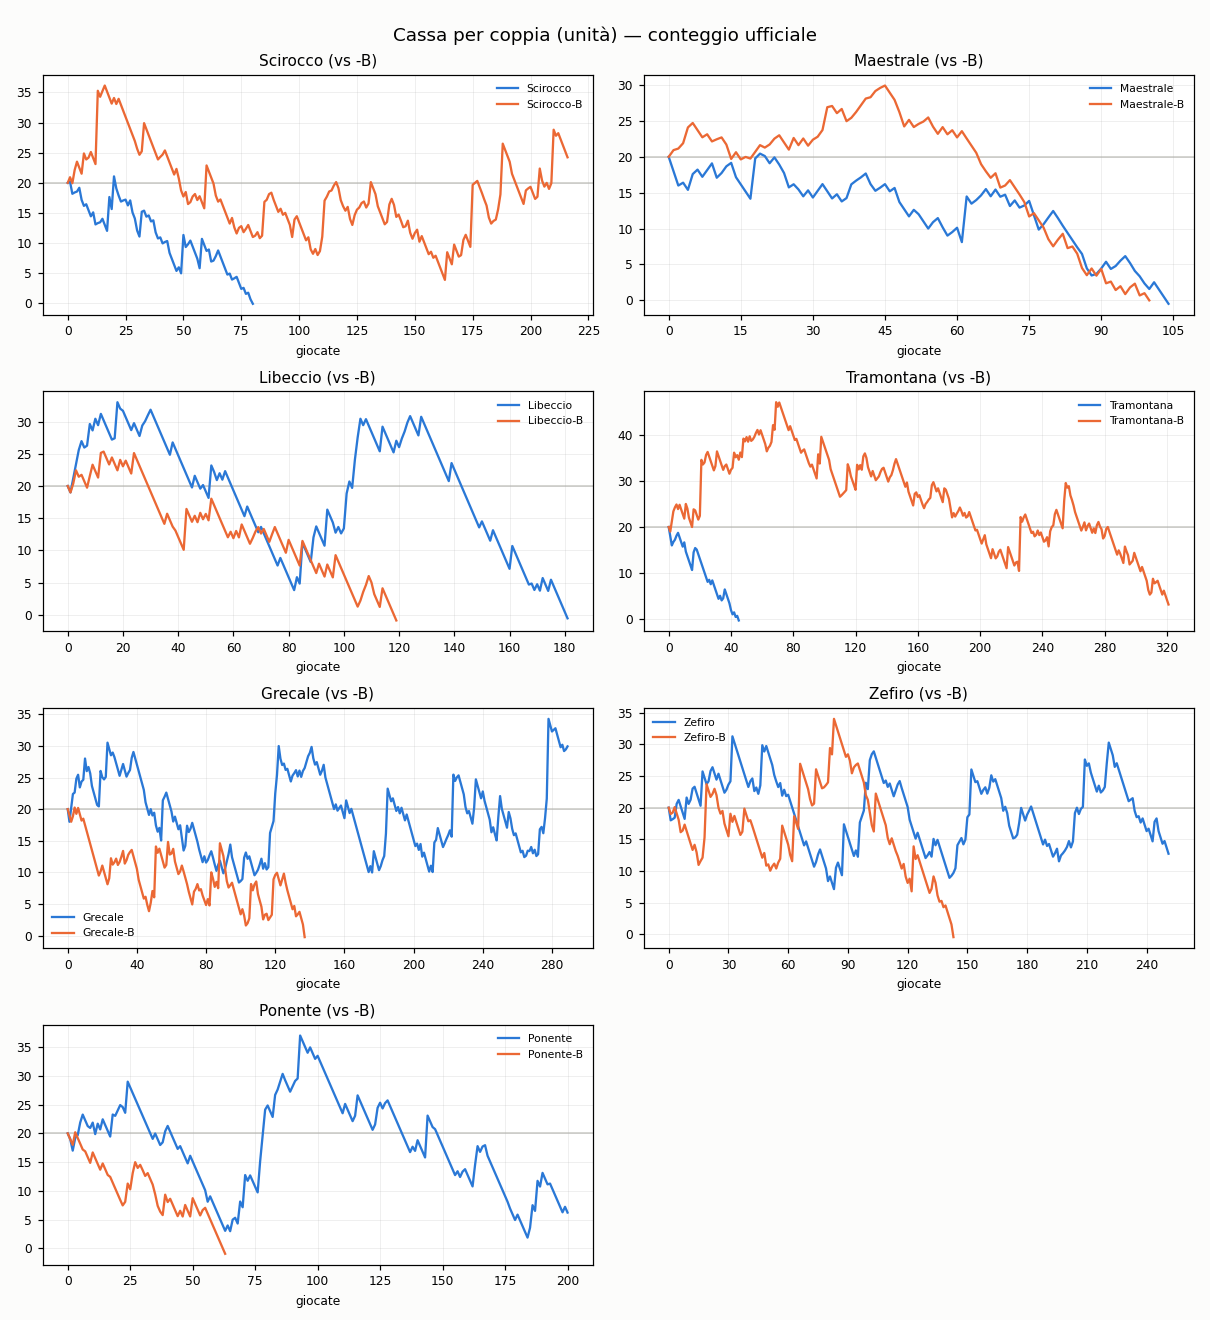
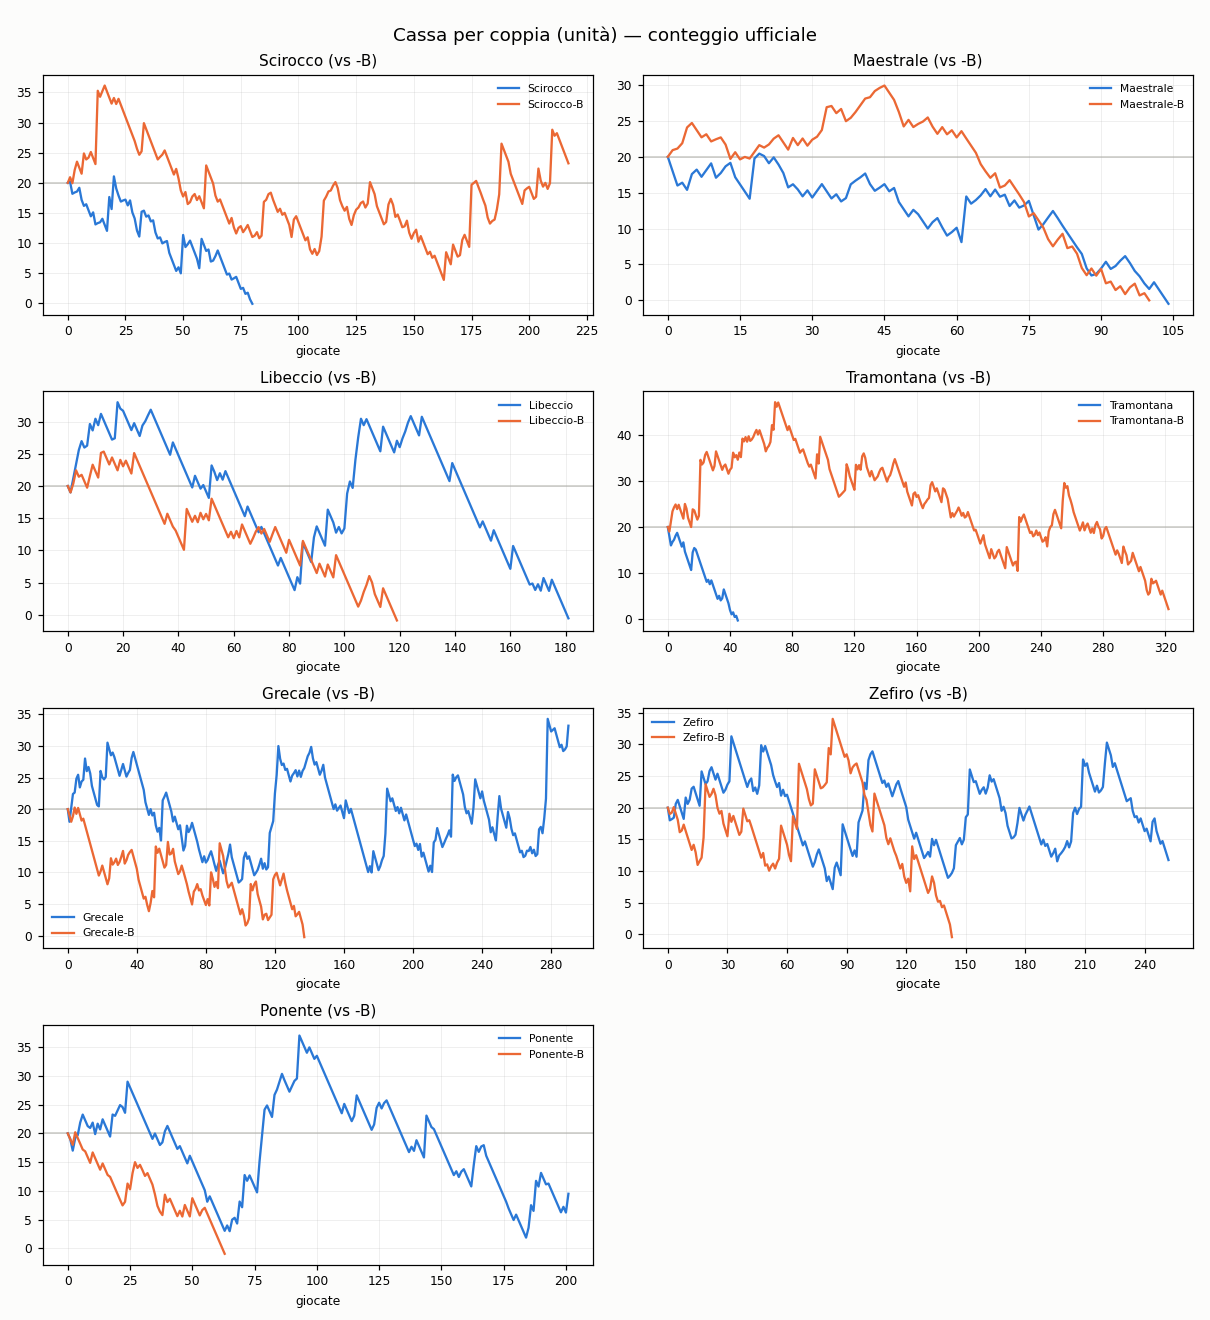
aggiornamento 2026-07-25 15:26 UTC

diff --git a/README.md b/README.md
@@ -37,9 +37,9 @@ scala in unità). Non indichiamo quale.
 
 ## Grafici
 
-![Coppie: dati completi vs ridotti](https://raw.githubusercontent.com/Kitem19/ippica-track-record/main/charts/equity_pairs.png?v=4b72abe6)
+![Coppie: dati completi vs ridotti](https://raw.githubusercontent.com/Kitem19/ippica-track-record/main/charts/equity_pairs.png?v=03973aac)
 
-![Delta per coppia](https://raw.githubusercontent.com/Kitem19/ippica-track-record/main/charts/coppie_delta.png?v=e5c8a9f6)
+![Delta per coppia](https://raw.githubusercontent.com/Kitem19/ippica-track-record/main/charts/coppie_delta.png?v=41a3e749)
 
 ### Come leggere i grafici
 
@@ -56,34 +56,34 @@ scala in unità). Non indichiamo quale.
 
 _Poche giornate: numeri ancora rumorosi, si conclude a fine fase (31/7)._
 
-- **Scirocco**: dati ridotti avanti di 24,3u — qui gli extra non aiutano
+- **Scirocco**: dati ridotti avanti di 23,3u — qui gli extra non aiutano
 - **Maestrale**: in sostanziale pareggio — troppo presto per dire
 - **Libeccio**: in sostanziale pareggio — troppo presto per dire
-- **Tramontana**: dati ridotti avanti di 3,5u — qui gli extra non aiutano
-- **Grecale**: dati completi avanti di 30,2u
-- **Zefiro**: dati completi avanti di 13,2u
-- **Ponente**: dati completi avanti di 7,2u
+- **Tramontana**: dati ridotti avanti di 2,5u — qui gli extra non aiutano
+- **Grecale**: dati completi avanti di 33,4u
+- **Zefiro**: dati completi avanti di 12,2u
+- **Ponente**: dati completi avanti di 10,4u
 
 ## Classifica (conteggio ufficiale)
 
 | Sistema | Cassa (u) | P/L (u) | Selezioni | Escluse | Stato |
 |---|---|---|---|---|---|
-| Grecale | 29,9 | +9,9 | 289 | 4 | 🟢 |
-| Scirocco-B | 24,2 | +4,2 | 216 | 0 | 🟢 |
-| Zefiro | 12,7 | -7,3 | 251 | 5 | 🟢 |
-| Ponente | 6,2 | -13,8 | 200 | 28 | 🟢 |
-| Tramontana-B | 3,2 | -16,8 | 321 | 0 | 🟢 |
-| Maestrale-B | 0,0 | -20,0 | 100 | 221 | 🛑 |
-| Scirocco | 0,0 | -20,1 | 80 | 230 | 🛑 |
-| Grecale-B | 0,0 | -20,2 | 137 | 161 | 🛑 |
-| Tramontana | 0,0 | -20,3 | 45 | 292 | 🛑 |
+| Grecale | 33,2 | +13,2 | 290 | 4 | 🟢 |
+| Scirocco-B | 23,2 | +3,2 | 217 | 0 | 🟢 |
+| Zefiro | 11,7 | -8,3 | 252 | 5 | 🟢 |
+| Ponente | 9,5 | -10,5 | 201 | 28 | 🟢 |
+| Tramontana-B | 2,2 | -17,8 | 322 | 0 | 🟢 |
+| Maestrale-B | 0,0 | -20,0 | 100 | 222 | 🛑 |
+| Scirocco | 0,0 | -20,1 | 80 | 231 | 🛑 |
+| Grecale-B | 0,0 | -20,2 | 137 | 162 | 🛑 |
+| Tramontana | 0,0 | -20,3 | 45 | 293 | 🛑 |
 | Zefiro-B | 0,0 | -20,5 | 143 | 63 | 🛑 |
-| Maestrale | 0,0 | -20,5 | 104 | 241 | 🛑 |
-| Libeccio | 0,0 | -20,6 | 181 | 149 | 🛑 |
-| Libeccio-B | 0,0 | -20,9 | 119 | 165 | 🛑 |
+| Maestrale | 0,0 | -20,5 | 104 | 242 | 🛑 |
+| Libeccio | 0,0 | -20,6 | 181 | 150 | 🛑 |
+| Libeccio-B | 0,0 | -20,9 | 119 | 166 | 🛑 |
 | Ponente-B | 0,0 | -21,0 | 63 | 80 | 🛑 |
 
-_Aggiornato: 25/07 17:21_
+_Aggiornato: 25/07 17:26_
 ---
 *Nessuna delle informazioni qui pubblicate costituisce consiglio di gioco.
 Il gioco può causare dipendenza — 18+.*
